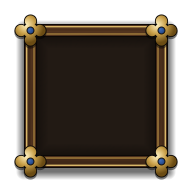
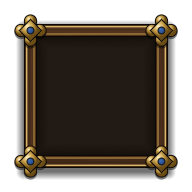
m1.5: add corner boss inner square, embed Back [Esc] in button, track Mac image format task

diff --git a/tools/ui_bake/shapes.py b/tools/ui_bake/shapes.py
@@ -145,37 +145,19 @@ def draw_diamond_stud(dst: np.ndarray, lx: np.ndarray, ly: np.ndarray, cx: float
     return blend_rgb_mask(out, hi, dot)
 
 
-def draw_quatrefoil_boss(dst: np.ndarray, lx: np.ndarray, ly: np.ndarray, cx: float, cy: float, s: int, tokens: TokenTable) -> np.ndarray:
-    """Draw a 34px quatrefoil brass corner boss with lapis centre jewel (kit.css --boss)."""
-    scale = 34.0 / 36.0
-    lobe_off = 10.0 * scale
-    lobe_r = 6.0 * scale
-    diam_r = 11.0 * scale
-    jewel_r = 3.2 * scale
-
-    sd_lobes = np.minimum(
-        np.minimum(sd_circle(lx, ly, cx, cy - lobe_off, lobe_r), sd_circle(lx, ly, cx, cy + lobe_off, lobe_r)),
-        np.minimum(sd_circle(lx, ly, cx - lobe_off, cy, lobe_r), sd_circle(lx, ly, cx + lobe_off, cy, lobe_r)),
-    )
-    sd_body = np.minimum(sd_lobes, sd_diamond(lx, ly, cx, cy, diam_r, diam_r))
-
-    # Drop shadow
-    sd_shadow = np.minimum(
-        np.minimum(sd_circle(lx, ly, cx, cy + 2.0 - lobe_off, lobe_r), sd_circle(lx, ly, cx, cy + 2.0 + lobe_off, lobe_r)),
-        np.minimum(sd_circle(lx, ly, cx - lobe_off, cy + 2.0, lobe_r), sd_circle(lx, ly, cx + lobe_off, cy + 2.0, lobe_r)),
-    )
-    sd_shadow = np.minimum(sd_shadow, sd_diamond(lx, ly, cx, cy + 2.0, diam_r, diam_r))
-
-    out = blend_rgb_mask(dst, np.array([0.0, 0.0, 0.0]), coverage(sd_shadow - 1.0, s), alpha=0.45)
-
-    ink = np.asarray(tokens.rgb("INK"), dtype=np.float64)
-    out = blend_rgb_mask(out, ink, coverage(sd_body - 0.9, s))
-
-    # Radial-like brass shading biased to top-left highlight (0.35, 0.30)
-    dx = (lx - (cx - 4.5)) / 18.0
-    dy = (ly - (cy - 5.5)) / 18.0
-    rt = np.clip(np.sqrt(dx * dx + dy * dy), 0.0, 1.0)
-    boss_brass = sample_ramp(
+def _radial_boss_brass(
+    lx: np.ndarray,
+    ly: np.ndarray,
+    ocx: float,
+    ocy: float,
+    box_size: float,
+    tokens: TokenTable,
+) -> np.ndarray:
+    """SVG objectBoundingBox radialGradient cx=0.35 cy=0.30 r=0.50."""
+    hx = (lx - (ocx - 0.15 * box_size)) / (0.50 * box_size)
+    hy = (ly - (ocy - 0.20 * box_size)) / (0.50 * box_size)
+    rt = np.clip(np.sqrt(hx * hx + hy * hy), 0.0, 1.0)
+    return sample_ramp(
         rt,
         [
             (0.0, parse_hex_color("#fff3c4")[:3]),
@@ -183,9 +165,53 @@ def draw_quatrefoil_boss(dst: np.ndarray, lx: np.ndarray, ly: np.ndarray, cx: fl
             (1.0, parse_hex_color("#6b4c14")[:3]),
         ],
     )
-    out = blend_rgb_mask(out, boss_brass, coverage(sd_body, s))
 
-    # Lapis jewel in centre
+
+def draw_quatrefoil_boss(dst: np.ndarray, lx: np.ndarray, ly: np.ndarray, cx: float, cy: float, s: int, tokens: TokenTable) -> np.ndarray:
+    """Draw a 34px quatrefoil brass corner boss with layered diamond square and lapis centre jewel (kit.css --boss)."""
+    scale = 34.0 / 36.0
+    lobe_off = 10.0 * scale
+    lobe_r = 6.0 * scale
+    diam_r = 11.0 * scale
+    jewel_r = 3.2 * scale
+
+    lobes: list[tuple[float, float]] = [
+        (cx, cy - lobe_off),
+        (cx, cy + lobe_off),
+        (cx - lobe_off, cy),
+        (cx + lobe_off, cy),
+    ]
+    sd_diam = sd_diamond(lx, ly, cx, cy, diam_r, diam_r)
+    sd_lobes = np.minimum(
+        np.minimum(sd_circle(lx, ly, lobes[0][0], lobes[0][1], lobe_r), sd_circle(lx, ly, lobes[1][0], lobes[1][1], lobe_r)),
+        np.minimum(sd_circle(lx, ly, lobes[2][0], lobes[2][1], lobe_r), sd_circle(lx, ly, lobes[3][0], lobes[3][1], lobe_r)),
+    )
+    sd_body = np.minimum(sd_lobes, sd_diam)
+
+    # Drop shadow beneath whole ornament
+    sd_shadow = np.minimum(
+        np.minimum(sd_circle(lx, ly, lobes[0][0], lobes[0][1] + 2.0, lobe_r), sd_circle(lx, ly, lobes[1][0], lobes[1][1] + 2.0, lobe_r)),
+        np.minimum(sd_circle(lx, ly, lobes[2][0], lobes[2][1] + 2.0, lobe_r), sd_circle(lx, ly, lobes[3][0], lobes[3][1] + 2.0, lobe_r)),
+    )
+    sd_shadow = np.minimum(sd_shadow, sd_diamond(lx, ly, cx, cy + 2.0, diam_r, diam_r))
+    out = blend_rgb_mask(dst, np.array([0.0, 0.0, 0.0]), coverage(sd_shadow - 1.0, s), alpha=0.45)
+
+    ink = np.asarray(tokens.rgb("INK"), dtype=np.float64)
+    _ = sd_body
+
+    # 1) Four circular lobes stroked with #0b0806 and shaded individually like SVG objectBoundingBox
+    for lx_c, ly_c in lobes:
+        sd_c = sd_circle(lx, ly, lx_c, ly_c, lobe_r)
+        out = blend_rgb_mask(out, ink, coverage(sd_c - 0.95, s))
+        c_brass = _radial_boss_brass(lx, ly, lx_c, ly_c, 2.0 * lobe_r, tokens)
+        out = blend_rgb_mask(out, c_brass, coverage(sd_c, s))
+
+    # 2) Internal rotated square (diamond) layered on top with its own #0b0806 stroke & brass radial fill
+    out = blend_rgb_mask(out, ink, coverage(sd_diam - 0.95, s))
+    d_brass = _radial_boss_brass(lx, ly, cx, cy, 2.0 * diam_r, tokens)
+    out = blend_rgb_mask(out, d_brass, coverage(sd_diam, s))
+
+    # 3) Lapis jewel in centre
     sd_jewel = sd_circle(lx, ly, cx, cy, jewel_r)
     out = blend_rgb_mask(out, ink, coverage(sd_jewel - 0.9, s))
     lapis = np.asarray(tokens.rgb("LAPIS"), dtype=np.float64)

diff --git a/docs/architecture/ui-and-controls-plan.md b/docs/architecture/ui-and-controls-plan.md
@@ -84,11 +84,13 @@ always includes lint, check_scripts and GUT green. Who: *Sonnet* builds anything
 | U15 | **Wire the App** | edit `shell/app/app.tscn`, `shell/app/app.gd` (the HUD, the stack, the screens, intents to the rig, toasts, the 10 s revert, screenshot, photo mode, the World made and freed with the game); `shell/input/app_input.gd`; edit `shell/map/map_scene.gd` (the old info box hooks go), `tools/lint_godot.py` (the allowlist entries of U4 go), `godot/README.md` (layout, keys, gestures, the main scene); `tests/shell/test_app_flow.gd`; edit `tests/shell/test_app.gd` | The whole spec | M1.5's "done when" items 1 to 4 hold in tests: boot to the main menu, sandbox, Esc, options, back, main menu (asks), sandbox again; the Esc ladder end to end |
 | U16 (Haiku) | **Monkey, UI pictures, input probe, CI** | `tests/shell/test_ui_monkey.gd`, `tools/ui/shot_ui.gd`, `tools/ui/probe_input.gd`; edit `.github/workflows/godot.yml` (a `ui-shots` job for pull requests touching `shell/app`, `shell/ui`, `shell/hud`, `shell/screens`, `shell/input`: xvfb and Mesa as the perf job, the pictures as artifacts) | Spec 9 | The monkey (3 seeds x 600 events) is green with its invariants; the pictures of spec 9 at both sizes and scales; the first frame of each screen under 16 ms on the runner; the owner's `probe_input` log is in the PR and sets `GESTURE_PAN_PX` |
 
-**Group E (after D and G1; the owner picks from G1's note)**
+**Group E (after D and G1; the owner picks from G1's note — also tracked in `godot-architecture.md` 9.2 as M1.5b)**
+
+> Observed on Apple M2 Pro Compatibility renderer: `BPTC_RGBA not supported by hardware, converting to RGBA8` in `tileset_builder.gd` (`load_season`), confirming G1/U17 is needed to fix the macOS image compression format (ASTC via `import_etc2_astc`, or half atlases).
 
 | # | Task | Files | Interfaces | Done when |
 |---|---|---|---|---|
-| U17 | **Texture memory fix** as G1 recommends: the ASTC import, or Texture quality (Full, Half) with the graphics presets | ASTC: `project.godot` (`import_etc2_astc`), the reimport, a line in `godot/README.md`. Half: edit `tools/build_tileset.gd` (`--half`), `shell/mapview/tileset_builder.gd`, `assets/tiles/tiles_*_half.tres` and the half atlases, `shell/map/map_scene.gd`, `shell/app/settings.gd` (rows), `shell/screens/options.gd` (rows and presets), `tests/shell/test_tileset.gd` | Spec 6.3 | The Mac's winter season under the 512 MB budget (perf tool on the Mac); the tileset check in CI covers the half sets; the look at zoom 1 signed by the art director |
+| U17 | **Mac image format & texture memory fix** (`BPTC_RGBA` -> ASTC or half atlases as G1 recommends): Texture quality (Full, Half) or `import_etc2_astc` reimport | ASTC: `project.godot` (`import_etc2_astc`), the reimport, a line in `godot/README.md`. Half: edit `tools/build_tileset.gd` (`--half`), `shell/mapview/tileset_builder.gd`, `assets/tiles/tiles_*_half.tres` and the half atlases, `shell/map/map_scene.gd`, `shell/app/settings.gd` (rows), `shell/screens/options.gd` (rows and presets), `tests/shell/test_tileset.gd` | Spec 6.3 | Zero `BPTC_RGBA` decompression fallback and the Mac's winter season under the 512 MB budget (live Mac probe + perf tool); the tileset check in CI covers the half sets / ASTC import; the look at zoom 1 signed by the art director |
 
 **Merge order:** A (U1 first: it moves the main scene), B, C, D (U15, then U16), E. **Reviews:** the code reviewer
 reads every task; the technical director reads U2, U5, U6, U8, U15 and U17; the art director signs U4 (tokens, fonts)

diff --git a/docs/architecture/godot-architecture.md b/docs/architecture/godot-architecture.md
@@ -442,7 +442,8 @@ their UI rows and no system spec yet. The UI work is specified and planned for e
 |---|---|---|---|
 | M0 | this page, section 8 | R1 to R6 | done |
 | M1 | `m1-build-spec.md` | its section 11 (T0 to T16) | done (T1 to T16 complete; the look decision is its section 14) |
-| M1.5 | `ui-and-controls-spec.md` and `ui-style-and-feedback-spec.md` (sections 4, 5, 9) | `ui-style-and-feedback-plan.md` S0, S1 (with `ui-and-controls-plan.md`) | **done** (S0 + S1 implemented and verified headless: Studiolo bake, generated Themes, `KitTheme`, `Motion`, UI kit, input/zoom/camera rig, `App`/`Hud`/screens, lint/CI, UI monkey & probes; pending owner playtest) |
+| M1.5 | `ui-and-controls-spec.md` and `ui-style-and-feedback-spec.md` (sections 4, 5, 9) | `ui-style-and-feedback-plan.md` S0, S1 (with `ui-and-controls-plan.md`) | **done** (S0 + S1 implemented and verified headless; pending owner playtest & Mac texture format fix `G1`/`U17`) |
+| M1.5b (Mac image format / `U17`) | `ui-and-controls-spec.md` section 6.3 | `ui-and-controls-plan.md` tasks **G1** & **U17** | **open task on roadmap**: macOS Metal Compatibility driver does not support `BPTC_RGBA` and unpacks seasonal tilesets to `RGBA8` (~4× VRAM). Run `G1` live Mac probe and land `U17` (`import_etc2_astc` ASTC 4×4 reimport or half-resolution atlases) to stay under the 512 MB budget |
 | M2 | `m2-build-spec.md` (who owns what in 1480, the home rule, modes, borders, the UI rows of `ui-and-controls-plan.md` section 4) | `m2-build-plan.md` (C1 to C20) | **specified and planned, waiting for the owner's go**; starts after M1 (T16) and M1.5 close |
 | M3 | `m3-build-spec.md` (calendar, the season table, works that take seasons, events and the chronicle, `Stats`, `Knowledge`, saves, the report and every M3 screen; it is task R1 of the style plan) | `m3-build-plan.md` (Y1 to Y18 with S2's R2 to R11 folded in) | **specified and planned, waits for the owner's go**; starts after M2 closes |
 | M4 | `m4-build-spec.md` (the district economy: goods by family, level and season, stores, `Treasury.move` and `Stores.move`, taxes, upkeep, costs, weather, the previews, the study's Economy page, the chips; it is task W0 of the style plan) | `m4-build-plan.md` (N1 to N12 with S3's W1 to W12 folded in) | **specified and planned, waits for the owner's go**; starts after M3 closes |
